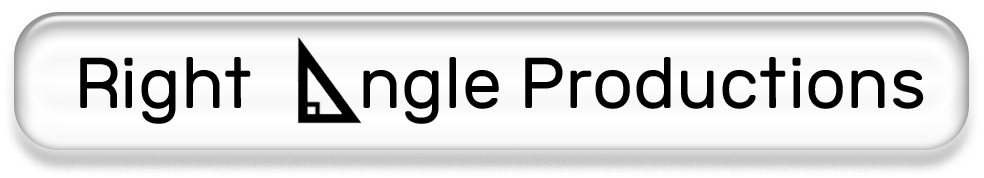
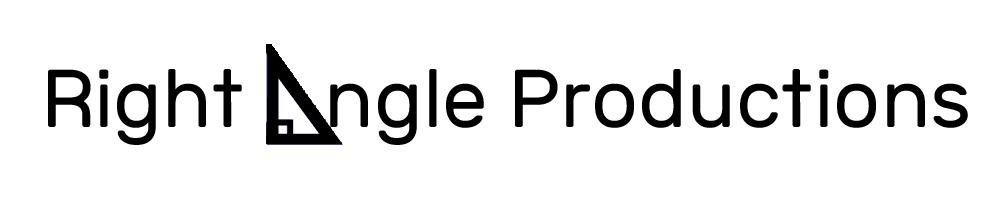
vBeta 0.13
Lots of changes. Updated latest videos, redid the index screen, title image is now flat (i prefer skeuomorphic design but this fits my pfp's design better).

diff --git a/index.html b/index.html
@@ -15,9 +15,16 @@
     </tr>   
 </table>
 <br />
-<h1 class="center">Hello!</h1>
-<h2 class="center">I'm Right Angle.</h2>
-<p class="center">Amateur Developer, Video Editor, Graphic Designer, and Professional Civic Obsessor.</p>
-<img src="images/aboutmeicons.png" width="45%" alt="Visual Studio Code, Camtasia Studio 8, Photoshop Elements 8, 2010 Honda Civic LX" class="center" />
+<h1 align="center">Hello!</h1>
+<h2 align="center">I'm Right Angle!</h2>
+<p align="center">I like Video Making, Graphic Design, Developing, Photography, Civic, and so much more.</p>
+<br /><br /><br /><br />
+<table width="65%" align="center">
+    <tr>
+        <td><img src="images/aboutme/goodnight.jpg" width="100%" class="roundborder" alt="Silhouette of a Tree in a sunset" /></td>
+        <td><img src="images/aboutme/2001civic.jpg" width="100%" class="roundborder" alt="2001 Honda Civic LX" /></td>
+        <td><img src="images/aboutme/snow.png" width="100%" class="roundborder" alt="Snow (Graphic Design)" /></td>
+    </tr>
+</table>
 </body>
 </html>

diff --git a/videos.html b/videos.html
@@ -19,8 +19,8 @@
 <p>Here are videos uploaded to my YouTube channel. You might have heard from me about Website Exclusive videos, which you can find here.</p>
 <hr />
 <h3>Latest Meme Video</h3>
-<h4>rhonda drives a minivan</h4>
-<iframe width="560" height="315" src="https://www.youtube.com/embed/KJAZ7_imqIM" frameborder="0" allow="accelerometer; autoplay; encrypted-media; gyroscope; picture-in-picture" allowfullscreen></iframe>
+<h4>you could stop at 5 or 6 stores nad find a snack</h4>
+<iframe width="560" height="315" src="https://www.youtube.com/embed/rNAxu6BJlZY" frameborder="0" allow="accelerometer; autoplay; encrypted-media; gyroscope; picture-in-picture" allowfullscreen></iframe>
 <hr />
 <h3>Latest Minecraft Video</h3>
 <h4>23475894323 News Miku Birthday Special</h4>

diff --git a/info.html b/info.html
@@ -16,7 +16,7 @@
 </table>
 <h1>Site Information</h1>
 <h3>Website Version</h3>
-<p>vBeta 0.12</p>
+<p>vBeta 0.13</p>
 <h3>Copyright</h3>
 <p>Copyright (c) 2019, Right Angle Productions</p>
 <p>This Website is licensed under the BSD-2 clause license. See it here or on <a href="https://github.com/RightAnglePro/rightanglepro.github.io/blob/master/LICENSE">Github.</a></p>

diff --git a/devnotes.html b/devnotes.html
@@ -16,6 +16,8 @@
 </table>
 <div style="background-color:white;" class="roundborder">
     <h3>Development Notes</h3>
+    <h4>8-30-19</h4>
+        <p>Rebrand back to Right Angle Productions.</p>
     <h4>5-18-19</h4>
         <p>society has been cancelled.</p>
     <h4>2-7-19</h4>
